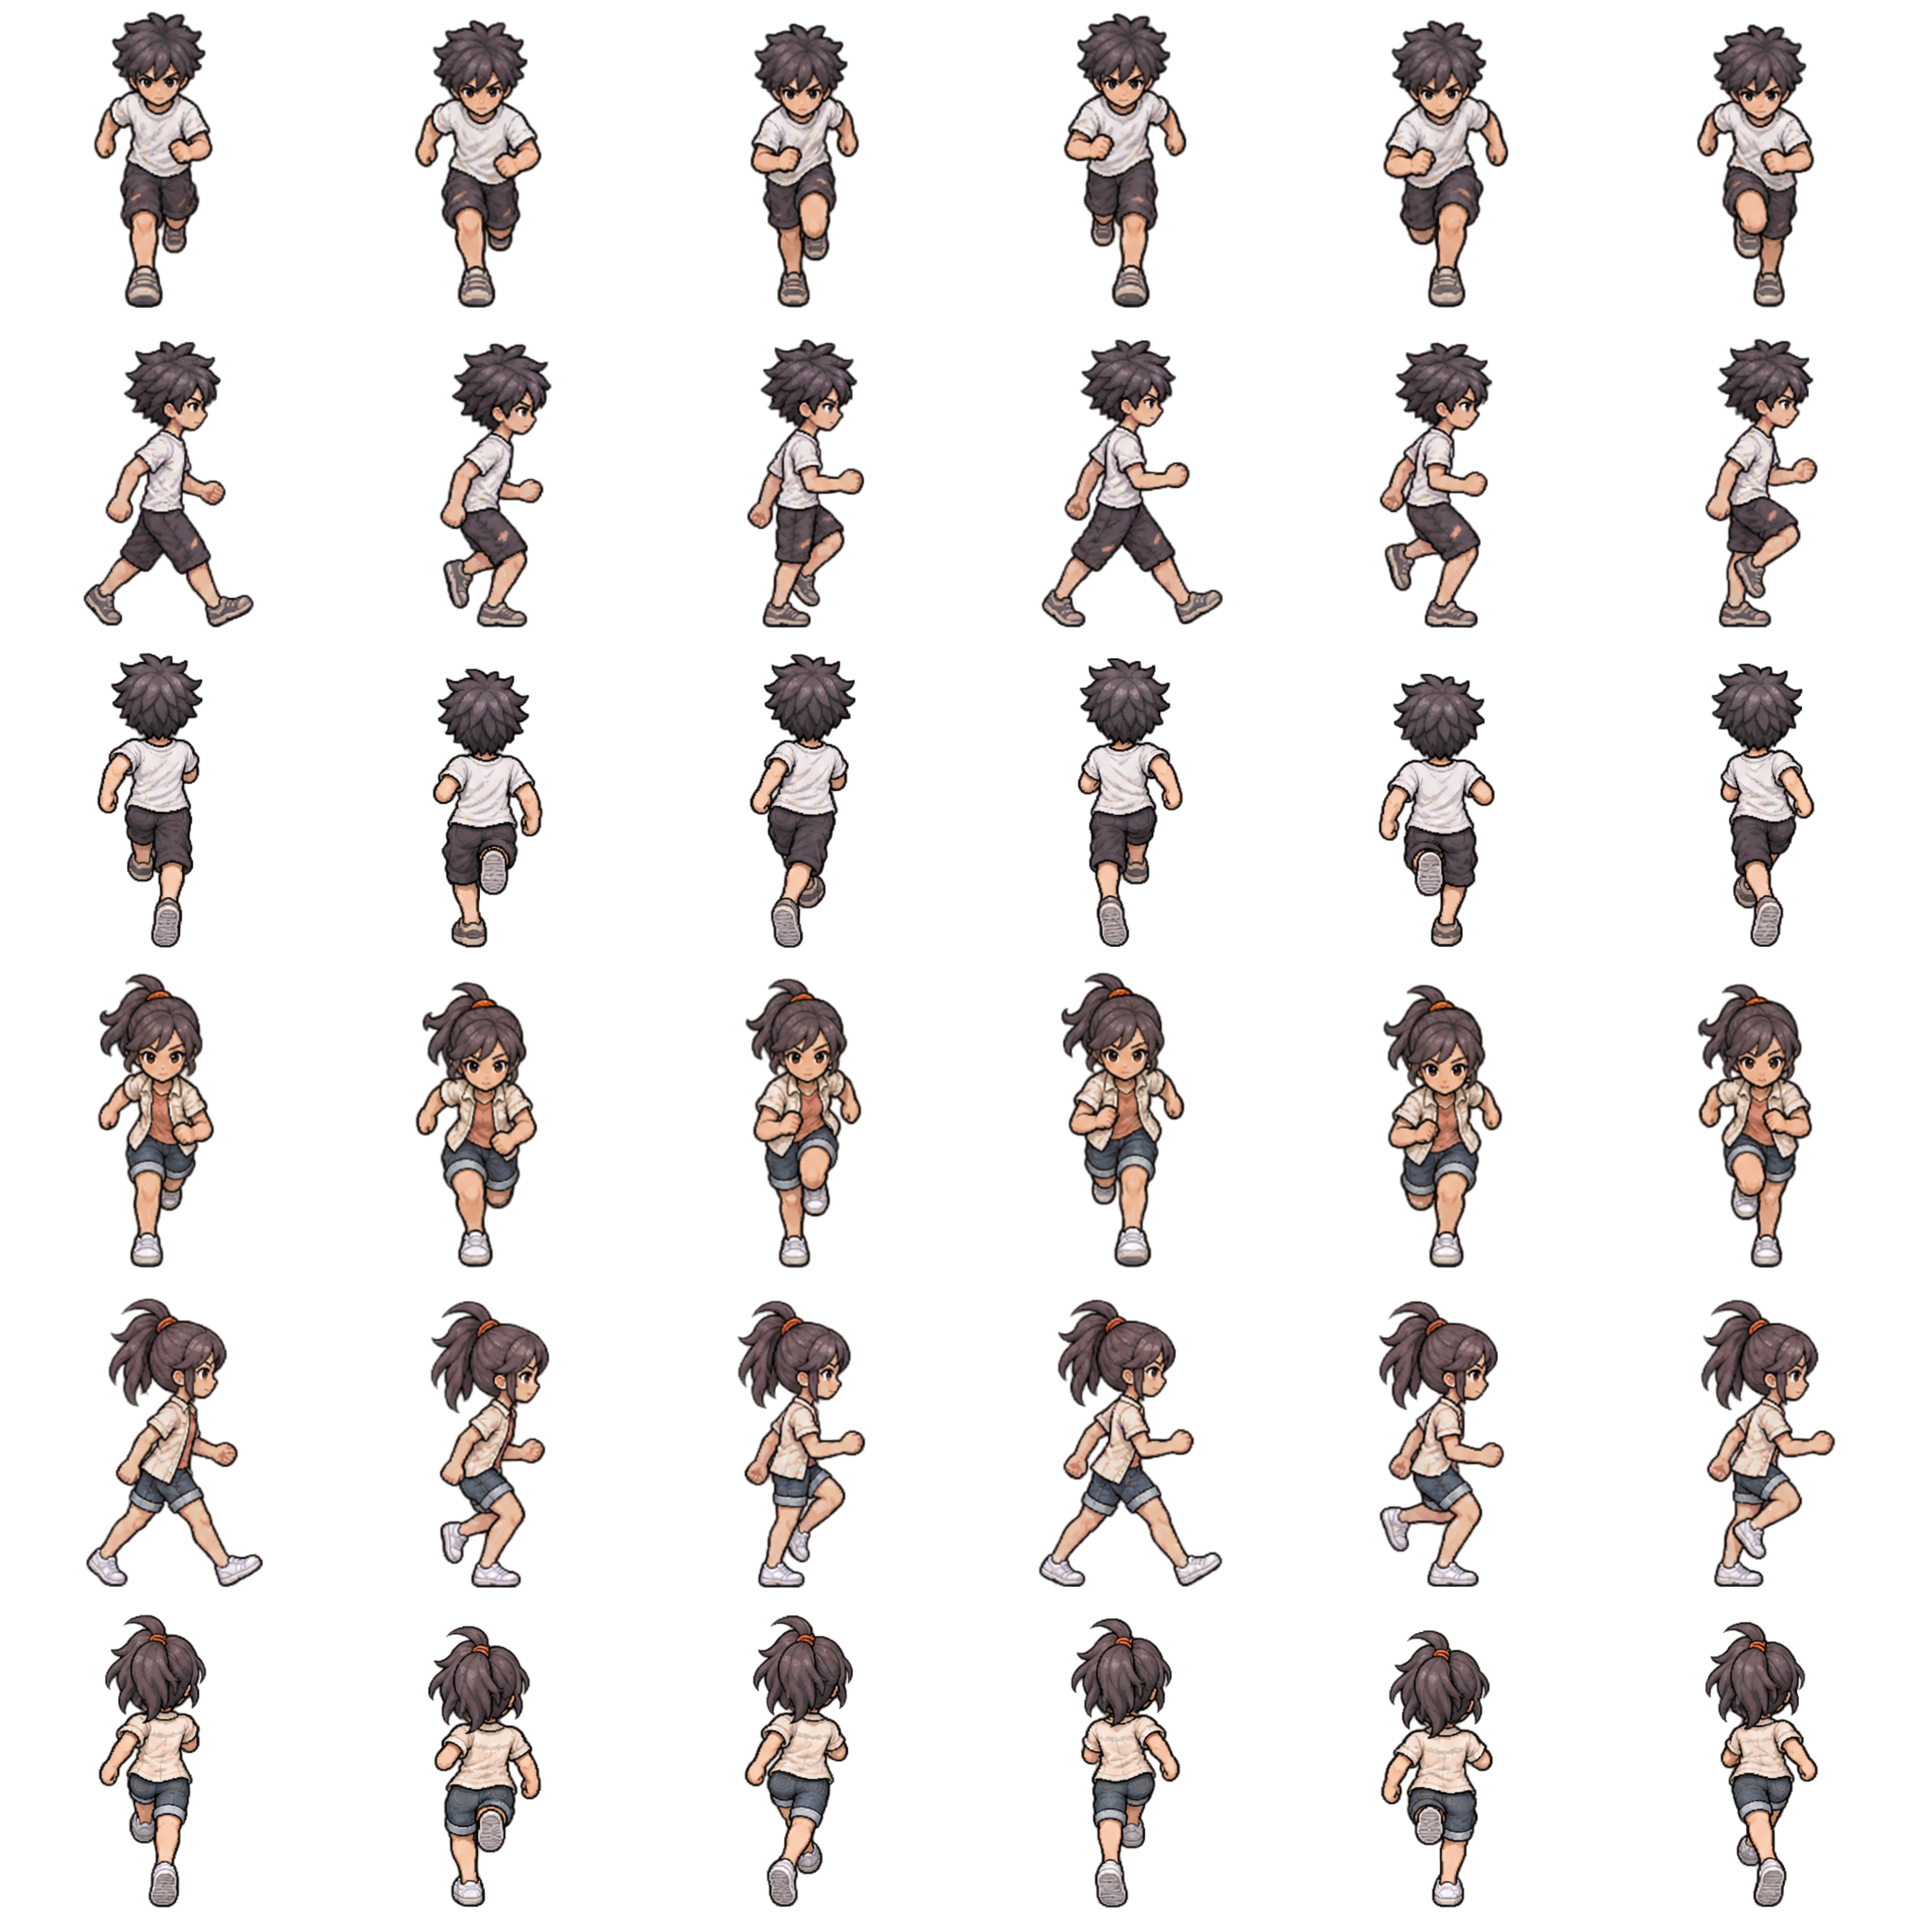
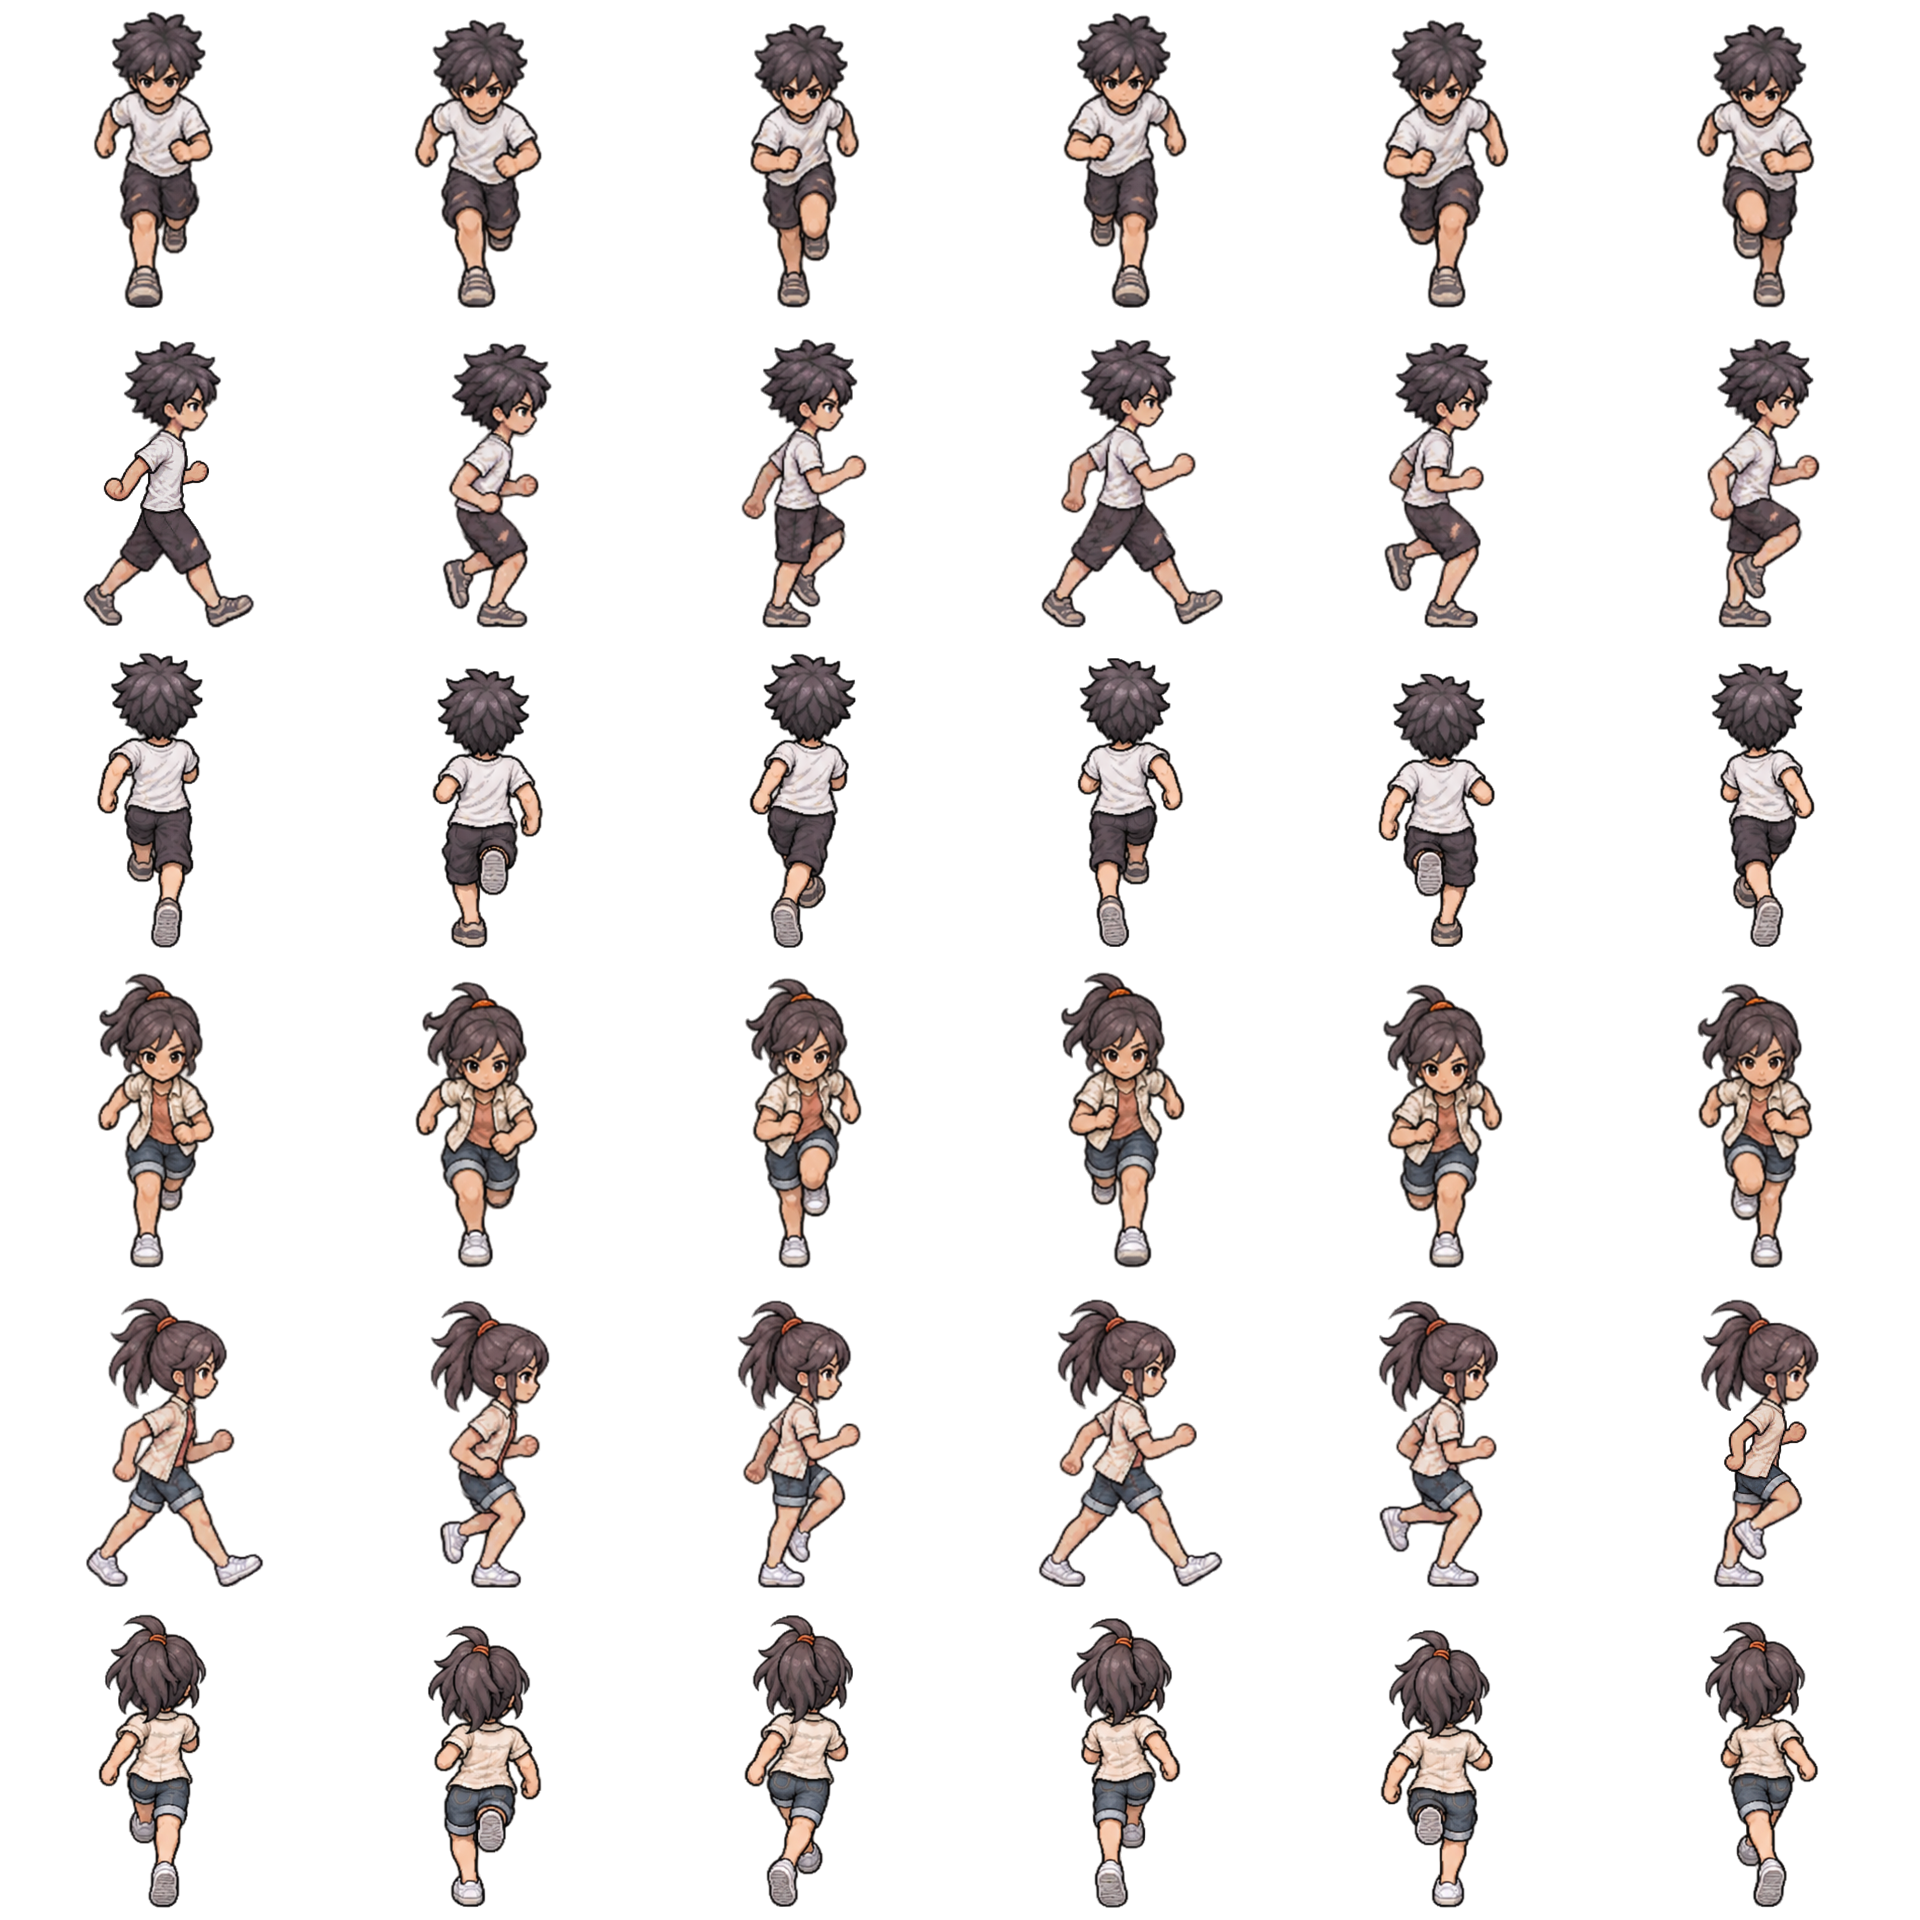
Add files via upload

diff --git a/index.html b/index.html
@@ -2,7 +2,7 @@
 <html lang="ko">
 <head>
 <meta name="app-id" content="castaway-isle">
-<meta name="app-version" content="42">
+<meta name="app-version" content="43">
 <meta charset="utf-8">
 <meta name="viewport" content="width=device-width, initial-scale=1, viewport-fit=cover">
 <title>표류섬</title>
@@ -299,7 +299,8 @@
   .objective .questHeading{font-size:14px;font-weight:700;color:#ffebbe;padding:0 3px;text-shadow:0 1px 3px #24170e,0 0 6px #24170e}
   .questBox{box-sizing:border-box;pointer-events:auto;
     border:1px solid #b98b55;border-radius:5px;background:#30251ceb;box-shadow:inset 0 0 0 2px #1c1813b8,0 2px 4px #170e0844}
-  .questScroll{max-height:min(24dvh,160px);overflow-y:auto;overscroll-behavior:contain;padding:5px 7px}
+  .questScroll{max-height:min(24dvh,160px);overflow-y:auto;overscroll-behavior:contain;touch-action:pan-y;padding:5px 7px}
+  .questBox.is-expanded .questScroll{max-height:min(40dvh,280px)}
   .questFooter{display:flex;justify-content:space-between;align-items:center;gap:3px;padding:1px 5px;border-top:1px solid #a47c4b5e}
   .questFooter button{min-height:27px;padding:1px 3px;background:none;border:0;color:#f4d49b;font:inherit;font-size:11px;cursor:pointer}
   .questFooter button:focus-visible{outline:2px solid #ffda91}
@@ -307,10 +308,11 @@
   .questBox.is-folded .questFooter{border-top:0}
   .objective ol{list-style:none;display:grid;gap:4px;margin:0;padding:0}
   .objective li{color:#fbefdb;font-size:12px;line-height:1.25;overflow-wrap:anywhere}
-  .objective li:first-child .questTask{font-weight:700}
-  .objective li small{display:-webkit-box;-webkit-box-orient:vertical;-webkit-line-clamp:2;overflow:hidden;color:#ead3a8;font-size:11px;margin-top:2px}
+  .objective li:first-child .questTask,.questName{font-weight:700}
+  .objective li small{display:block;color:#ead3a8;font-size:11px;margin-top:2px}
   .questTask{pointer-events:auto;display:block;width:100%;min-height:28px;text-align:left;border:0;background:none;padding:0;color:inherit;font:inherit;cursor:pointer}
-  .questTask[aria-pressed="true"]{color:#ffda91}
+  .questTask.is-open,.questName{color:#ffda91}
+  .questName{display:block;padding:4px 0 1px}
   .questCraft{pointer-events:auto;margin-top:3px;min-height:24px;background:#74502d;border:1px solid #c79a60;border-radius:4px;padding:1px 5px;color:#fff1d7;font:inherit;font-size:11px;line-height:1.2;cursor:pointer}
   .questTask:focus-visible,.questCraft:focus-visible{outline:2px solid #ffda91}
   .ic.coconutChips{background:url(coconut-chips.png) center/contain no-repeat}
@@ -436,7 +438,7 @@
 <script>
 (() => {
 'use strict';
-const APP='castaway-isle', APP_V='42', NOTE="해변에서 깨어나는 장면, 달리기 동작, 야자수 수확 모습과 숲길 경계를 손봤어요.";
+const APP='castaway-isle', APP_V='43', NOTE="옆면 달리기의 팔 동작과 퀘스트 목록을 손봤어요.";
 const KEY = n => APP+':'+n;                         // 이 앱의 저장 이름 (다른 앱과 안 겹침)
 const store = {get:k=>{try{return localStorage.getItem(KEY(k));}catch(e){return null;}}, set:(k,v)=>{try{localStorage.setItem(KEY(k),v);}catch(e){}}};
 const vibrationBtn=document.getElementById('vibrationBtn');
@@ -778,12 +780,9 @@ function setQuestFold(folded){
 }
 questFold.addEventListener('click',()=>setQuestFold(!questScroll.hidden));
 let questsExpanded=false,lastQuestDisplay='',selectedQuest=null;
-let questPage=0;
 questMore.addEventListener('click',()=>{
-  if(!questsExpanded){questsExpanded=true;questPage=0;}
-  else if(questMore.dataset.next==='true')questPage++;
-  else{questsExpanded=false;questPage=0;}
-  goal();
+  questsExpanded=!questsExpanded;selectedQuest=null;
+  goal();questScroll.scrollTop=0;
 });
 function renderQuests(title,detail,recipeId){
   const optional=[];
@@ -796,28 +795,43 @@ function renderQuests(title,detail,recipeId){
     if(inv.rod&&!seenHints.has('quest:fish'))optional.push(['낚시로 물고기 잡기','낚싯대를 들고 물가로 가세요']);
     if(inv.pot&&!seenHints.has('quest:cooked'))optional.push(['냄비로 요리하기','불이 켜진 모닥불에서 요리를 고르세요']);
   }
-  if(!optional.length)questsExpanded=false;
-  questPage=Math.min(questPage,Math.max(0,Math.ceil(optional.length/2)-1));
-  const list=[[title,detail,recipeId],...(questsExpanded?optional.slice(questPage*2,questPage*2+2):[])];
-  const entries=list.map(([name,help,id])=>{
+  const entries=[[title,detail,recipeId],...optional].map(([name,help,id],i)=>{
     const recipe=RECIPES.find(r=>r.id===id);
-    return {name,help,recipe,ready:!!recipe&&canCraft(recipe)};
+    const needs=recipe?materials(recipe.need):'';
+    const description=needs&&help!==needs?[needs,help].filter(Boolean).join(' · '):help;
+    return {name,help,description,recipe,main:i===0,ready:!!recipe&&canCraft(recipe)};
   });
-  const key=JSON.stringify([entries,optional.length,questsExpanded,selectedQuest]);
+  const ready=entries.filter(q=>q.ready);
+  const pending=entries.filter(q=>!q.ready);
+  const hiddenCount=pending.filter(q=>!q.main).length;
+  if(!hiddenCount)questsExpanded=false;
+  const visible=[...ready,...(questsExpanded?pending:pending.filter(q=>q.main))];
+  if(!questsExpanded||!pending.some(q=>q.name===selectedQuest))selectedQuest=null;
+  const key=JSON.stringify([visible,hiddenCount,questsExpanded,selectedQuest]);
   if(lastQuestDisplay===key)return;
   lastQuestDisplay=key;
-  questList.replaceChildren(...entries.map(({name,help,recipe,ready},i)=>{
+  questList.replaceChildren(...visible.map(({name,help,description,recipe,main,ready},i)=>{
     const row=document.createElement('li');
-    const label=document.createElement('button');label.type='button';label.className='questTask';
-    label.textContent=name;label.setAttribute('aria-pressed',String(selectedQuest===name));
-    label.addEventListener('click',()=>{
-      if(waking||dialoguePinned||sleepScene||hutTransition||discovery||!menu.hidden)return;
-      selectedQuest=name;goal();
-      if(help)hint(help,2.8);
-    });
+    const label=document.createElement(ready?'span':'button');
+    label.className=ready?'questName':'questTask';label.textContent=name;
+    const selected=selectedQuest===name;
+    const showDetails=ready||selected||(!questsExpanded&&main);
+    if(!ready){
+      label.type='button';
+      if(description)label.setAttribute('aria-expanded',String(showDetails));
+      if(selected)label.classList.add('is-open');
+      label.addEventListener('click',()=>{
+        if(waking||dialoguePinned||sleepScene||hutTransition||discovery||!menu.hidden)return;
+        if(!questsExpanded){if(help)hint(help,2.8);return;}
+        if(!description)return;
+        selectedQuest=selected?null:name;goal();
+        const current=questList.children[i];
+        current?.firstElementChild?.focus?.({preventScroll:true});
+        if(selectedQuest)current?.scrollIntoView?.({block:'nearest'});
+      });
+    }
     row.appendChild(label);
-    const description=recipe&&i>0&&!ready?materials(recipe.need)+' · '+help:help;
-    if(description&&(i===0||selectedQuest===name||ready)){
+    if(description&&showDetails){
       const text=document.createElement('small');text.textContent=description;row.appendChild(text);
     }
     if(ready){
@@ -827,11 +841,10 @@ function renderQuests(title,detail,recipeId){
     }
     return row;
   }));
-  questMore.dataset.available=String(optional.length>0);
-  questMore.hidden=questScroll.hidden||!optional.length;
-  const remaining=optional.length-(questPage+1)*2;
-  questMore.dataset.next=String(remaining>0);
-  questMore.textContent=questsExpanded?(remaining>0?`더보기 +${remaining} ▾`:'추가 접기 ▴'):`더보기 +${optional.length} ▾`;
+  questBoxEl.classList.toggle('is-expanded',questsExpanded);
+  questMore.dataset.available=String(hiddenCount>0);
+  questMore.hidden=questScroll.hidden||!hiddenCount;
+  questMore.textContent=questsExpanded?'추가 접기 ▴':`더보기 +${hiddenCount} ▾`;
   questMore.setAttribute('aria-expanded',String(questsExpanded));
 }
 function built(type){ return Object.values(world).flatMap(m=>m.objs).find(o=>o.type===type); }

diff --git a/sw-castaway-isle.js b/sw-castaway-isle.js
@@ -1,6 +1,6 @@
 // 표류섬 서비스워커 — 이 앱 주소(/castaway-isle/) 것만 다룸
 const APP = 'castaway-isle';
-const VERSION = '42';
+const VERSION = '43';
 const CACHE = APP + '-' + VERSION;
 const FILES = [
   "./manifest.webmanifest", "./icon-192.png", "./icon-192.png?v=5", "./icon-512.png?v=5",
@@ -19,6 +19,7 @@ const SPRITES = {
   "castaway_run.png":[1920,1920], "palm_empty.png":[754,500], "cliff_notch.png":[39,37]
 };
 const AUDIO = ["./audio/hut.mp3", "./audio/files.json", "./audio/day.mp3", "./audio/night.mp3", "./audio/waves.mp3", "./audio/fire.mp3", "./audio/cast.wav", "./audio/bite.wav", "./audio/wake.wav", "./audio/chop.wav", "./audio/pickup.wav", "./audio/pickup-hard.wav", "./audio/vine.wav", "./audio/cricket.wav", "./audio/sand-1.wav", "./audio/grass-1.wav", "./audio/wet-1.wav", "./audio/sand-2.wav", "./audio/grass-2.wav", "./audio/wet-2.wav", "./audio/sand-3.wav", "./audio/grass-3.wav", "./audio/wet-3.wav"];
[1 lines of base64/hex data omitted]
 const APP_TAG = '<meta name="app-id" content="castaway-isle">';
 const VERSION_TAG = '<meta name="app-version" content="'+VERSION+'">';
 const myScope = () => new URL('./', self.registration.scope).pathname;
@@ -28,9 +29,14 @@ async function cacheSprite(cache,file,[width,height]){
   const req=new Request('./'+file+'?sprite=v'+VERSION,{cache:'reload'});
   const res=await fetch(req);
   if(!res.ok)throw new Error(file);
-  const header=new DataView(await res.clone().arrayBuffer());
+  const bytes=await res.clone().arrayBuffer(),header=new DataView(bytes);
   if(header.byteLength<24||header.getUint32(0)!==0x89504e47||header.getUint32(12)!==0x49484452||
       header.getUint32(16)!==width||header.getUint32(20)!==height)throw new Error(file);
+  if(file==='castaway_run.png'){
+    const digest=new Uint8Array(await crypto.subtle.digest('SHA-256',bytes));
+    const hash=Array.from(digest,b=>b.toString(16).padStart(2,'0')).join('');
+    if(hash!==RUN_HASH)throw new Error(file);
+  }
   await cache.put(req,res);
 }
 
